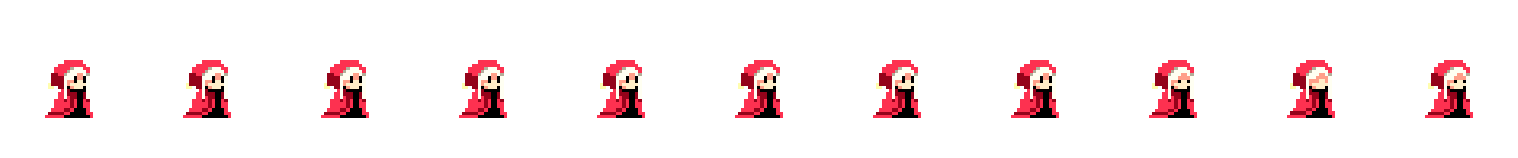
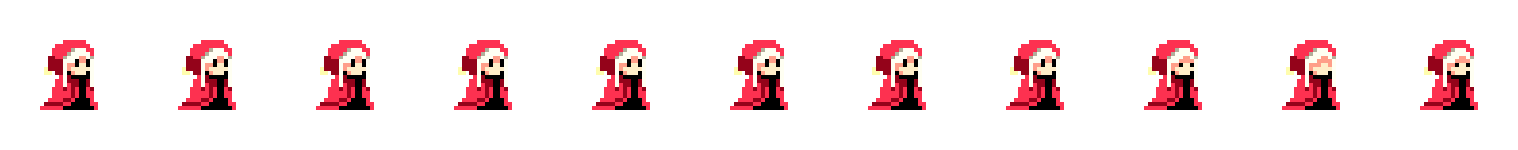
new sprite added while idle and running

diff --git a/kings-and-pigs-main/index.js b/kings-and-pigs-main/index.js
@@ -9,32 +9,44 @@ let collisionBlocks
 let background
 let doors
 const player = new Player({
-  imageSrc: './img/king/idle.png',
+  imageSrc: './img/AssetPack/Light/idle_blink/idleRight.png',
   frameRate: 11,
   animations: {
     idleRight: {
       frameRate: 11,
-      frameBuffer: 2,
+      frameBuffer: 8,
       loop: true,
-      imageSrc: './img/king/idle.png',
+      imageSrc: './img/AssetPack/Light/idle_blink/idleRight.png',
     },
     idleLeft: {
-      frameRate: 11,
+      frameRate: 8,
       frameBuffer: 2,
       loop: true,
-      imageSrc: './img/king/idleLeft.png',
+      imageSrc: './img/AssetPack/Light/idle_blink/idleLeft.png',
     },
     runRight: {
-      frameRate: 8,
+      frameRate: 10,
       frameBuffer: 4,
       loop: true,
-      imageSrc: './img/king/runRight.png',
+      imageSrc: './img/AssetPack/Light/run/runRight.png',
     },
     runLeft: {
-      frameRate: 8,
+      frameRate: 10,
       frameBuffer: 4,
       loop: true,
-      imageSrc: './img/king/runLeft.png',
+      imageSrc: './img/AssetPack/Light/run/runLeft.png',
+    },
+    jumpRight: {
+      frameRate: 4,
+      frameBuffer: 4,
+      loop: true,
+      imageSrc: './img/AssetPack/Light/jump/jumpnRight.png',
+    },
+    jumpLeft: {
+      frameRate: 4,
+      frameBuffer: 4,
+      loop: true,
+      imageSrc: './img/AssetPack/Light/jump/jumpLeft.png',
     },
     enterDoor: {
       frameRate: 8,
